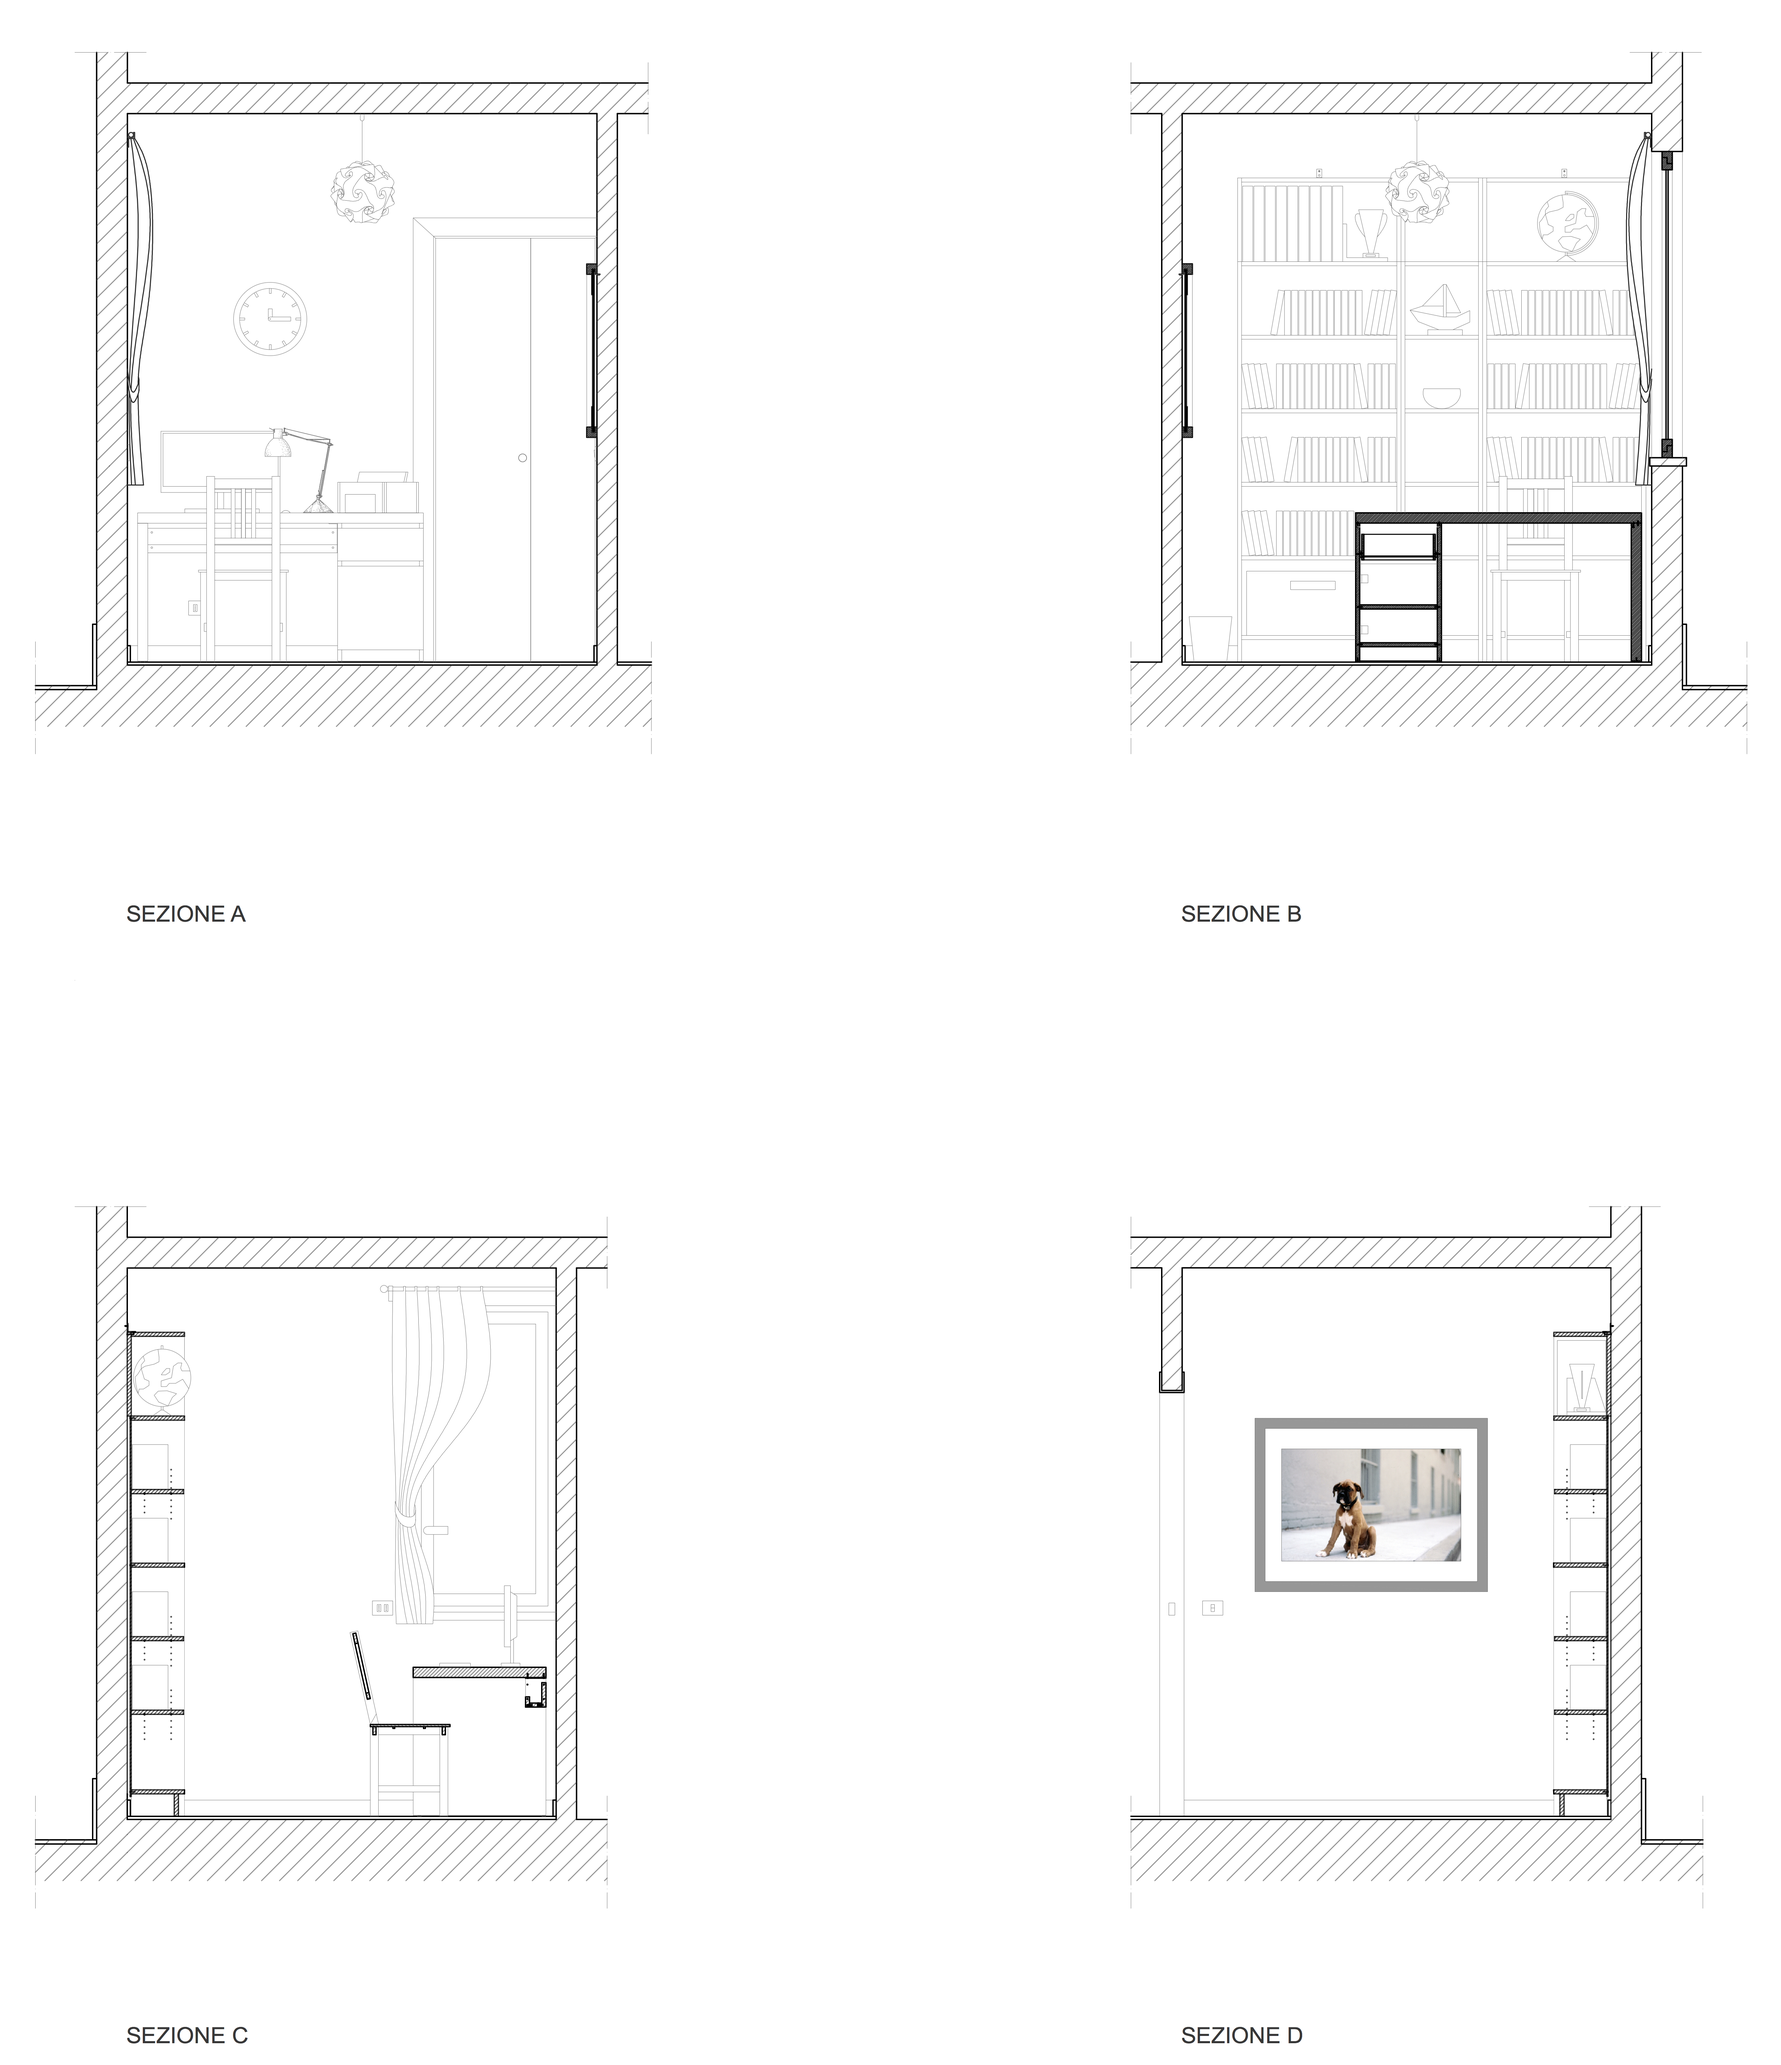
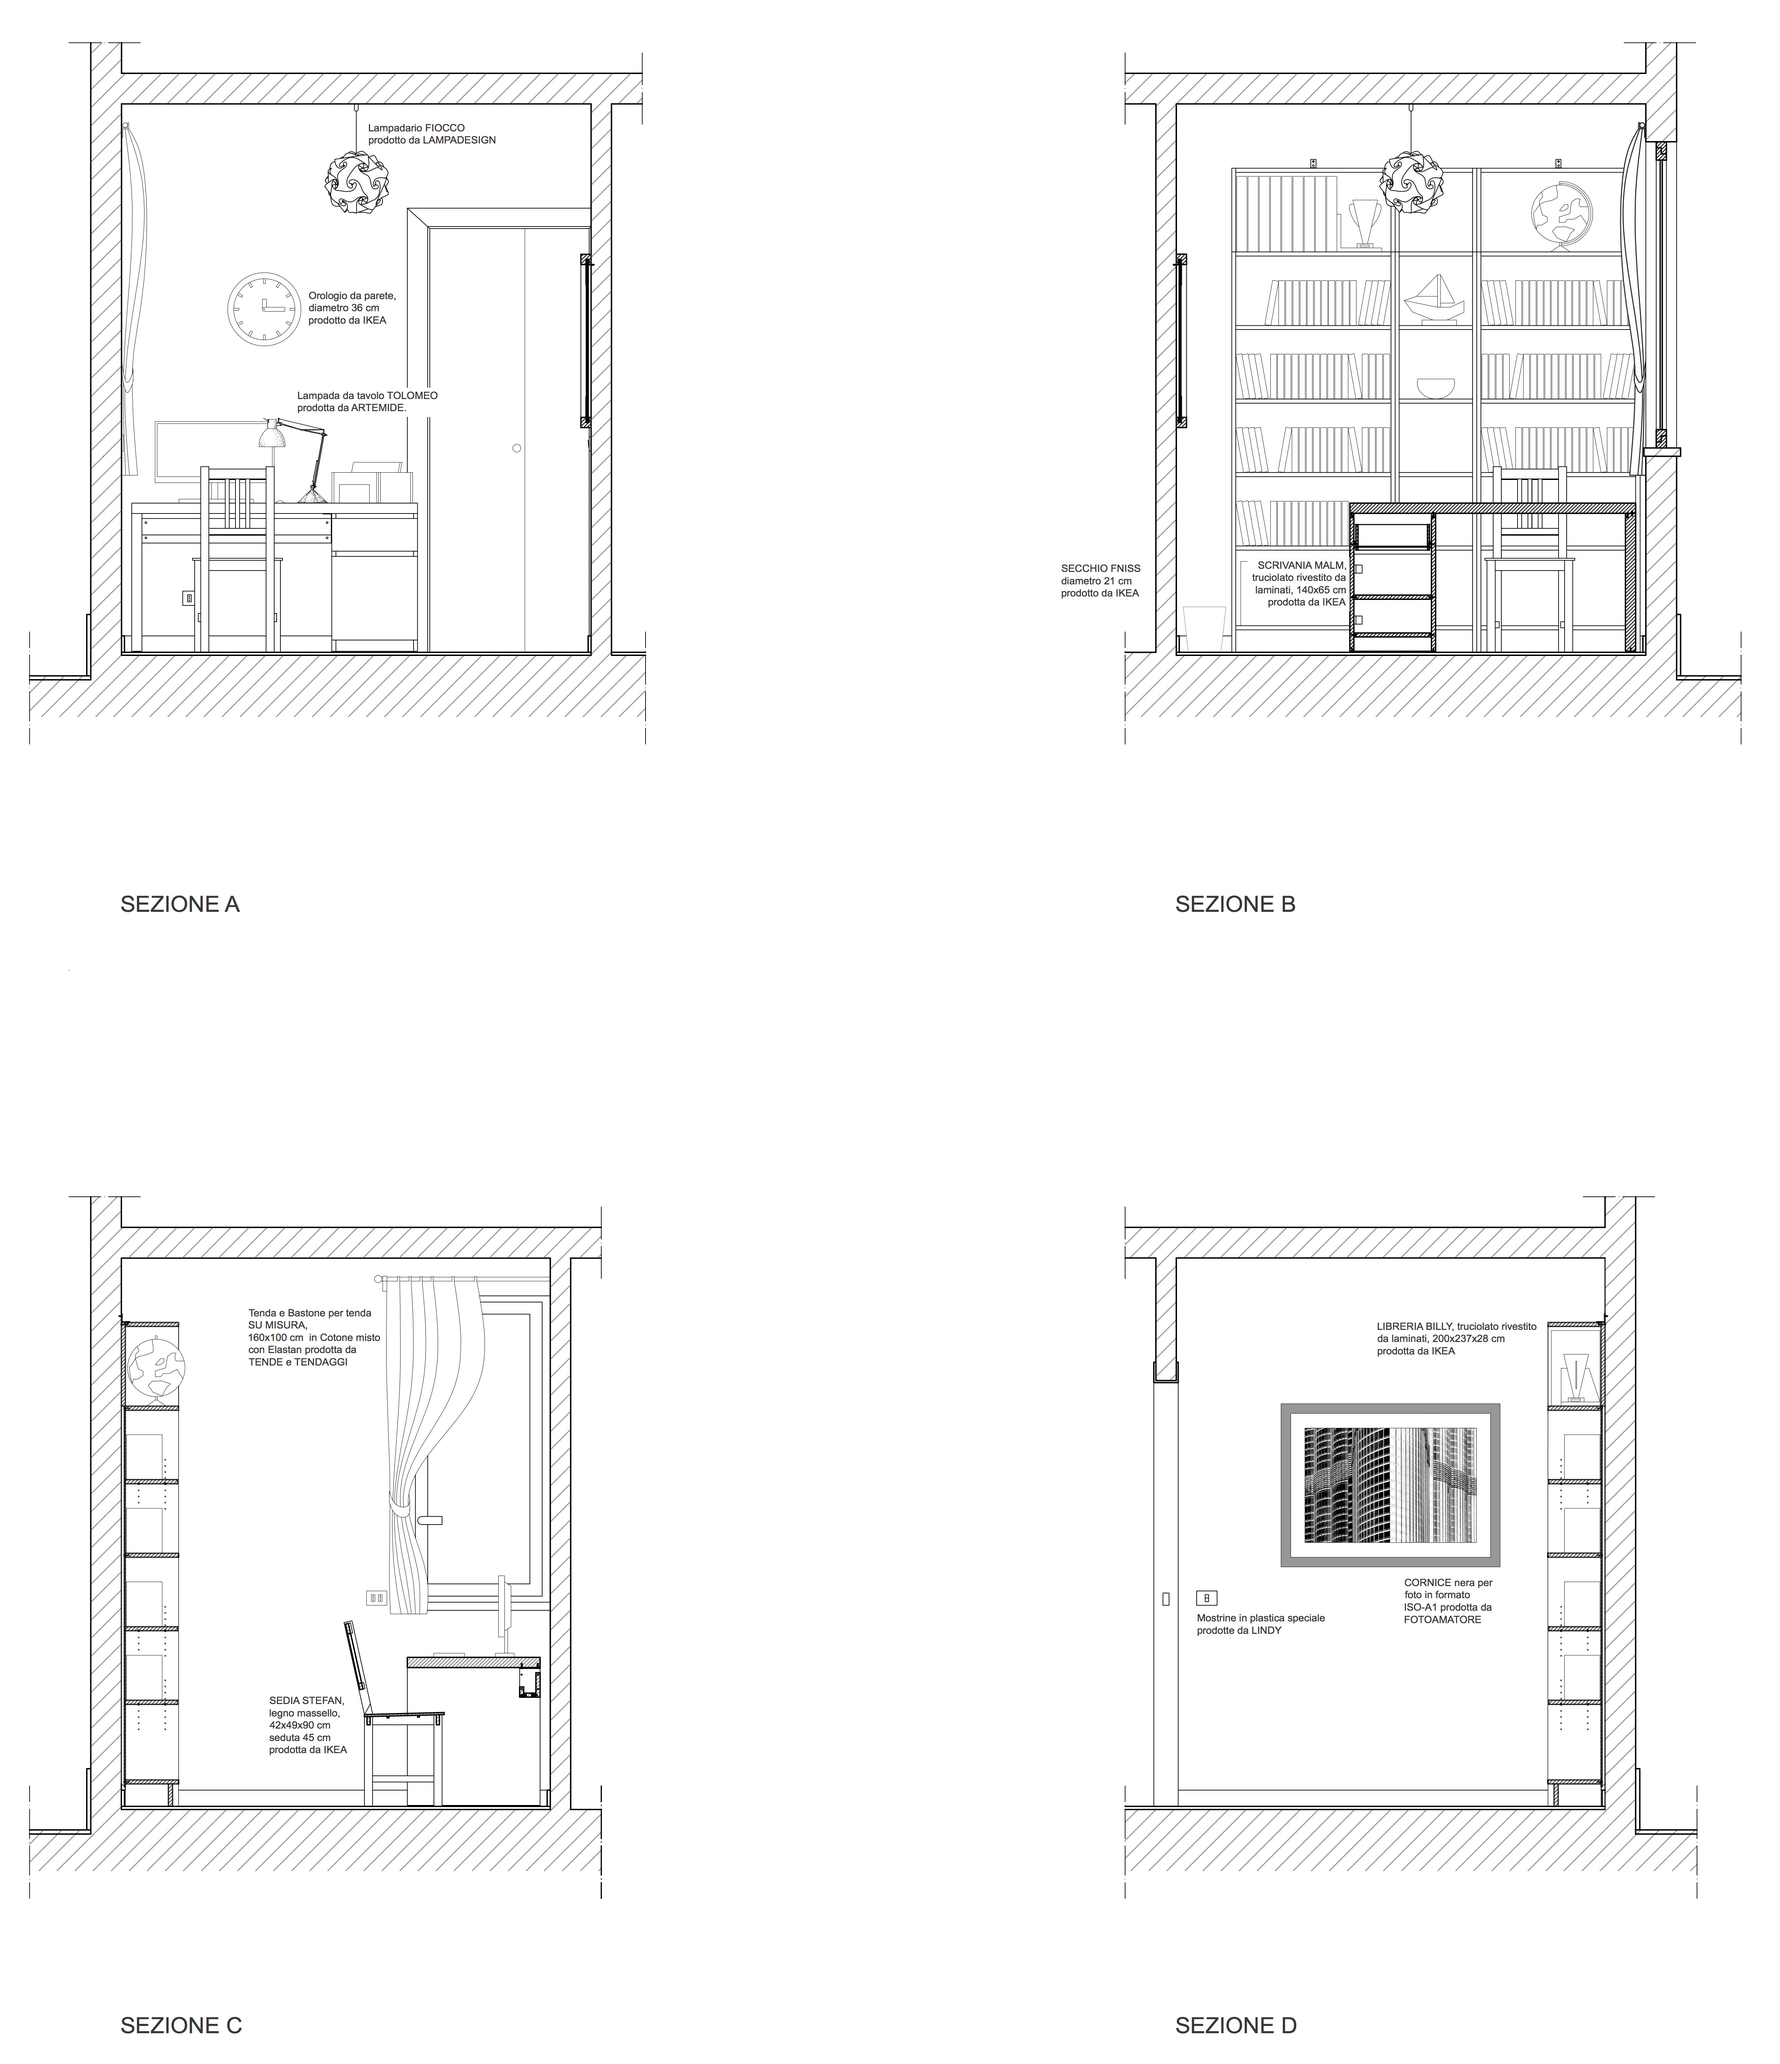
fine e risoluzione problemi

diff --git a/projects/MO-S_1/MO-S_1_STUDIO/MO-S_1-studio.html b/projects/MO-S_1/MO-S_1_STUDIO/MO-S_1-studio.html
@@ -20,8 +20,8 @@ STUDIO di Mortula Michele
 </p2>
 <h2>Pianta</h2>
 <aside>
-<img src="../IMG/MO-S_1_STUDIO.JPG"alt="Pianta e Sezione"width="800"height="auto"></a>
-<img src="../IMG/MO-S_1_STUDIO(2).JPG"alt="PIANTA"width="800"height="auto">
+<a href="../IMG/MO-S_1_STUDIO.jpg"><img src="../IMG/MO-S_1_STUDIO.JPG"alt="Pianta"width="800"height="auto"></a>
+<a href="../IMG/MO-S_1_STUDIO(2).jpg"><img src="../IMG/MO-S_1_STUDIO(2).JPG"alt="SEZIONI"width="800"height="auto"></a>
 <aside>
 <h2>Descrizione</h2>
 <center>
@@ -58,11 +58,39 @@ Nel corso di questo semestre abbiamo studiato a
    spaziale nello spazio dedicato alla creatività<br/>
    <img src="../IMG/fiocco.JPG"alt="fiocco"height="150"width="100"><br/>
    Il lampadario Fiocco che rende vivace l'ambiente con i suoi
-   movimenti sinuosi e colori sfumati come se si dissolvessero. Tra gli altri
-   oggetti di arredo spicca un quadro con una foto ricordo.<br/>
+   movimenti sinuosi e colori sfumati come se si dissolvessero.<br/> Tra gli altri
+   oggetti di arredo spicca una cornice con una fotografia che ritrae un particolare dell'edificio più alto
+   del mondo, il Burj Khalifa.<br/> E' questa un opera del fotografo
+   <a id="link" href="https://lucianomortula.com">Luciano Mortula</a><br/>
 
 </p1></div></center>
-
+<br/>
+<h2>Descrizione</h2>
+<center>
+<div>
+<p1>
+Gli arredi principali prodotti IKEA dell'ambiente studio sono:<br/>
+<img src="../IMG/libreria BILLY.JPG"alt="LIBRERIA"width="400"height="auto">
+Libreria BILLY,<br/>
+Descrizione del prodotto
+Elemento top:
+Truciolare, Impiallacciatura di betulla, Carta, Impiallacciatura di betulla, Vernice acrilica, trasparente<br/>
+Libreria:
+Parti principali: Truciolare, Carta, Impiallacciatura di betulla, Vernice acrilica, trasparente
+Pannello di fondo: Fibra di legno, Lamina<br/>
+<img src="../IMG/scrivania MALM.JPG"alt="SCRIVANIA"width="400"height="auto">
+Scrivania MALM,<br/>
+Descrizione del prodotto
+Piano: Truciolare, Strato di riempimento in cartone riciclato a nido d'ape, Fibra di legno, Lacca acrilica, Lacca acrilica, Plastica ABS
+Anta/ Frontale del cassetto: Truciolare, Lacca acrilica, Plastica ABS
+Parte posteriore del cassetto/ Lato del cassetto: Truciolare, Lamina
+Base del cassetto: Fibra di legno, Lacca acrilica, Lamina<br/>
+<img src="../IMG/sedia STEFAN.JPG"alt="SEDIA"width="400"height="auto">
+Sedia Stefan,<br/>
+Descrizione del prodotto
+Pino massiccio, Mordente, Vernice acrilica, trasparente<br/>
+</p1></div></center>
+<br/>
 <center>
 <div><p1><strong>
 Per ulteriori informazioni riguardo gli arredi vedi l'account
